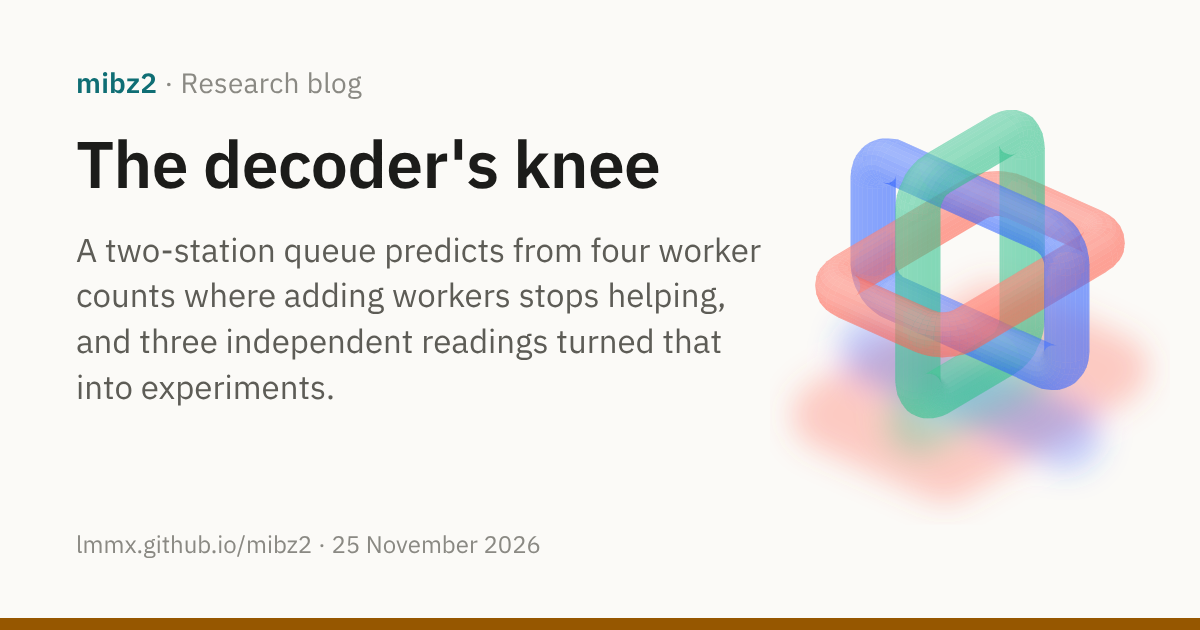
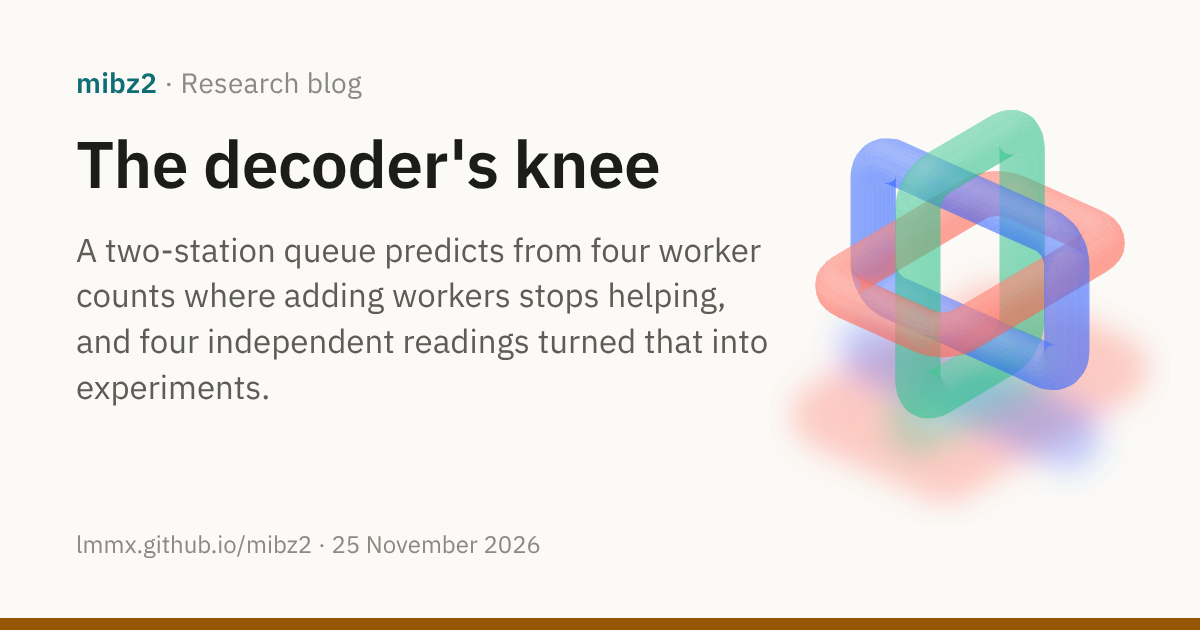
blog(knee): the fourth reading, the design space, and stage 1 analysed by program
From journal §§71-72 (docs/journal-algorithm-overnight at 3ad28015) and MONODROMY's records 129
(7f18ccf7) and 130 (9c3690f2) on claude/sharp-meitner-cx0v78, each figure checked in the records.

- New §5: the scan as one dependent chain at about 7 cycles a symbol (a first-level load's
  latency), fewer lookups a symbol as the lever, the 2.6-symbol floor and the 13-17% prediction
  (conjectured), with its cheapest test; the design space scored by the two-station law, block-start
  index -15%, several symbols a lookup -17%, both -19% (all conjectured); within-block parallel
  Huffman ruled out by the selector count that never re-synchronises (proved from the format, cost
  argued); worker shares, construction 45% as the largest mathematical target; stage 1 by program,
  the lower bound tight below the knee and loosest at it, and bursty in-order takes.
- The readers' table gains the fourth row; "three readings" becomes four in the dek, nav, index and
  card; stage 2 is "being run again", still with no results.

check_prose (dek PASS), strict build, check_render, check_site, link_audit and look (four
viewports, 0 problems) pass.

Changed region(s): [[0.1233, 0.5127, 0.6475, 0.573], [0.0617, 0.6032, 0.2775, 0.6333]]

diff --git a/docs/site/blog/2026-11-25-the-decoders-knee.md b/docs/site/blog/2026-11-25-the-decoders-knee.md
@@ -1,7 +1,7 @@
 ---
 title: "The decoder's knee"
 image: assets/social/blog-2026-11-25-the-decoders-knee.png
-description: "A two-station queue predicts from four worker counts where adding workers stops helping, and three independent readings turned that into experiments."
+description: "A two-station queue predicts from four worker counts where adding workers stops helping, and four independent readings turned that into experiments."
 ---
 
 <div class="post-hero" markdown>
@@ -13,10 +13,10 @@ description: "A two-station queue predicts from four worker counts where adding 
 
 # The decoder's knee
 
-A two-station queue predicts from four worker counts where adding workers stops helping, and three independent readings turned that into experiments.
+A two-station queue predicts from four worker counts where adding workers stops helping, and four independent readings turned that into experiments.
 {: .post-dek }
 
-25 November 2026 · 12 min read · [Research in progress](#8-what-runs-next)
+25 November 2026 · 14 min read · [Research in progress](#9-what-runs-next)
 {: .post-meta }
 
 </div>
@@ -104,14 +104,14 @@ or 3% on the plateau. The large gains lie in less work at the bottleneck, or mor
 
 Three performance-analysis courses were read in full, with their sources saved, and then mined for
 opportunities against these measurements by four readers, each writing an answer before seeing the
-others ([the summary](https://github.com/lmmx/mibz2/blob/61f960932ea45b709b3a9aeca35599bc6bad21b3/docs/journal/2026-11-24-algorithm-level/reports/2026-11-25-course-mining.md)). Three of those readings are in; the fourth, aimed at where
-mathematics rather than engineering fits, is still to come.
+others ([the summary](https://github.com/lmmx/mibz2/blob/61f960932ea45b709b3a9aeca35599bc6bad21b3/docs/journal/2026-11-24-algorithm-level/reports/2026-11-25-course-mining.md)). The fourth, aimed at where mathematics rather than engineering fits, is the subject of §5.
 
 | Reader | What it found that the others had not |
 |---|---|
 | [The first reading](https://github.com/lmmx/mibz2/blob/61f960932ea45b709b3a9aeca35599bc6bad21b3/docs/journal/2026-11-24-algorithm-level/leads/course-opportunities.md) | right-sizing the worker count; putting the bottleneck on the fastest core; mean-value analysis in place of the hard-max fit |
 | [An outside model](https://github.com/lmmx/mibz2/blob/61f960932ea45b709b3a9aeca35599bc6bad21b3/docs/journal/2026-11-24-algorithm-level/external/chatgpt-course-mining.md) | the public API's actual worker count; bottleneck migration; the variability of block sizes |
 | [A second agent](https://github.com/lmmx/mibz2/blob/61f960932ea45b709b3a9aeca35599bc6bad21b3/docs/journal/2026-11-24-algorithm-level/reviews/neon-course-mining.md) | two avoidable copies in the scanner, about 8% of its demand; the same worker-count error |
+| [The fourth reading](https://github.com/lmmx/mibz2/blob/7f18ccf719a0fd7eb863f8aa519a4fb8a8f2295b/docs/journal/monodromy/2026-11-25-course-mining-and-analysis-plan.md) | the scan as a chain at its latency floor; a design space for the scanner–worker boundary; construction as the largest worker target |
 
 The disagreements were the useful part. The first reading had claimed that the Python binding's
 default of 20 workers costs 20% of the wall. Two readers, independently, found that the public API
@@ -165,7 +165,44 @@ The run flagged its own instrument as perturbing at 10 and 20 workers: the cost 
 include 1 but are wide, so timings from the ledgers at high counts may be inflated by up to about
 9%, while shares, counts and the identities are unaffected.
 
-## 5. Designing for a purpose
+## 5. The fourth reading, and a design space
+
+The fourth reading registered its plan for analysing stages 1 and 2 before stage 1 ran, and then
+asked what the measurements imply about the scanner itself ([record 129](https://github.com/lmmx/mibz2/blob/7f18ccf719a0fd7eb863f8aa519a4fb8a8f2295b/docs/journal/monodromy/2026-11-25-course-mining-and-analysis-plan.md)). At 1.41 to
+1.51 ns a symbol, the Huffman scan takes about 7 cycles a symbol, one first-level cache load's
+latency: the scan is a single dependent chain running at its latency floor. The lever is
+therefore fewer lookups a symbol, decoding several symbols with each lookup. A 10-bit window bounds
+that at about 2.6 symbols a lookup, and the reading conjectures 13 to 17% off the best wall; the
+cheapest test is to count cycles a symbol on the scanner at one worker, where about 7 cycles and no
+cache misses would confirm the floor.
+
+A companion record enumerated the ways the scanner's obligations could be divided between the
+scanner and the workers, and scored each placement with the two-station law
+([record 130](https://github.com/lmmx/mibz2/blob/9c3690f299574ea5296e189c8f3d74e7dcfb19af/docs/journal/monodromy/2026-11-25-design-space-and-identification.md)). Three placements lead, all conjectured: an index of block starts, so that
+each worker scans its own block, at −15%; decoding several symbols a lookup, still serially, at
+−17%; and both together at −19%. Its separating principle is to keep an obligation on a serial path
+only if its state has no small summary, and to cut the path wherever the format resets that state.
+One placement it rules out: decoding a single block's Huffman codes in parallel. The table is
+chosen afresh every 50 symbols by a running symbol count that nothing in the stream
+re-synchronises, so each chunk would have to carry at least 50 hypotheses, and a k-way split
+loses for every k below 50; the obstruction is proved from the format, its cost argued.
+
+The same record measured where the workers' time goes on a real block at one worker: construction
+of the inversion's structures 45%, emission 38%, move-to-front and run records 10%, and the final
+run-length expansion and checksum 6%, shares that hold at 8 and 16 workers. Construction, not
+emission, is the largest target for mathematics in the workers. Of the two leads at the scanner,
+decoding several symbols a lookup becomes an engineering prototype, and the index of block starts
+the larger structural lead.
+
+Stage 1's traces have also been analysed by program ([journal §71](https://github.com/lmmx/mibz2/blob/3ad28015eb83951d79fdb13cedb4b5bc8ba1d992/docs/journal/2026-11-24-algorithm-level.md); [the outputs](https://github.com/lmmx/mibz2/tree/3ad28015eb83951d79fdb13cedb4b5bc8ba1d992/docs/journal/2026-11-24-algorithm-level/math-targets/data/character-stage1/analysis)).
+The lower bound, the busiest of the scanner, the workers and the reader, is tight below the knee,
+with the wall within 1.4% of it up to 6 workers, and loosest at the knee itself, 4 to 5% at 8 to 11
+workers, where dependencies, starvation and blocking cost most. Issuing blocks is smooth, but taking
+them is bursty: when a slow block at the head of the line finishes, a run of ready blocks is taken
+at once, the signature of putting completed blocks back in order. These describe one corpus's
+traces, not guarantees.
+
+## 6. Designing for a purpose
 
 A question about method came next: whether the decoder could be studied the way systems biology
 studies a regulatory network, with Uri Alon's network motifs as the obvious model. The answer that
@@ -196,7 +233,7 @@ same reading were adopted as method: the same function can be realised by differ
 which is why the referee counts structure; and a representation change is a search for the hidden
 coordinate in which the work cancels.
 
-## 6. The dynamical layer
+## 7. The dynamical layer
 
 The decoder is "digital on analogue": discrete events, a block admitted or a buffer released, on top
 of continuous quantities such as occupancy and time. The language for that is the theory of hybrid
@@ -222,7 +259,7 @@ quantities apart: lower bounds, used to prune; predictors, used to rank, and val
 runs rather than by replaying a run with its own durations; and proved upper bounds, for which
 backward induction over a finite, acyclic state graph is the concrete route.
 
-## 7. How the work is done
+## 8. How the work is done
 
 The method is written down so that it can be reused
 ([the protocol](https://github.com/lmmx/mibz2/blob/61f960932ea45b709b3a9aeca35599bc6bad21b3/docs/journal/2026-11-24-algorithm-level/process/protocol.md)). It starts from a measured surprise rather than a technique, poses the
@@ -234,13 +271,13 @@ naming who found the error, as the worker-count error and the lower bound above 
 registers its decision rule before its data, changes are priced jointly because a relieved
 bottleneck moves, and when it moves, the ideas it may have masked are tested again.
 
-## 8. What runs next
+## 9. What runs next
 
 Five runs are planned, in order ([the programme of experiments](https://github.com/lmmx/mibz2/blob/61f960932ea45b709b3a9aeca35599bc6bad21b3/docs/journal/2026-11-24-algorithm-level/briefs/experiment-programme.md)): the stage 1 baseline, now
 done; the scanner's copy fix, as a paired comparison at 8, 9 and 10 workers; stage 2, which slows
 each activity in turn to say which controls the wall at which count; the recalibration of the
 worker count, including 7 against 8 and the kernel chosen below 8; and the joint frontier of scanner
-and worker improvements together. Stage 2 is running now, and none of its results are in. Each cost
+and worker improvements together. Stage 2 is being run again after its first part failed on the workstation, and none of its results are in. Each cost
 it finds controlling will be classed as engineering, a matter of how the work is done, or as a
 candidate for mathematics, a matter of what work is done.
 
@@ -253,4 +290,5 @@ candidate for mathematics, a matter of what work is done.
 - The design thread: [structure and function](https://github.com/lmmx/mibz2/blob/61f960932ea45b709b3a9aeca35599bc6bad21b3/docs/journal/2026-11-24-algorithm-level/leads/structure-and-function.md), with [the outside answer on motifs](https://github.com/lmmx/mibz2/blob/61f960932ea45b709b3a9aeca35599bc6bad21b3/docs/journal/2026-11-24-algorithm-level/external/chatgpt-alon-motifs.md) and [on Khammash](https://github.com/lmmx/mibz2/blob/61f960932ea45b709b3a9aeca35599bc6bad21b3/docs/journal/2026-11-24-algorithm-level/external/chatgpt-khammash.md); journal §§64–65.
 - The dynamical layer: [the outside answer](https://github.com/lmmx/mibz2/blob/61f960932ea45b709b3a9aeca35599bc6bad21b3/docs/journal/2026-11-24-algorithm-level/external/chatgpt-dynamics.md), [the levers](https://github.com/lmmx/mibz2/blob/61f960932ea45b709b3a9aeca35599bc6bad21b3/docs/journal/2026-11-24-algorithm-level/reading/hybrid-dynamical-systems/relevance/levers.md) and [the review that corrected them](https://github.com/lmmx/mibz2/blob/61f960932ea45b709b3a9aeca35599bc6bad21b3/docs/journal/2026-11-24-algorithm-level/external/chatgpt-hybrid-systems-review.md); journal §§67–70.
 - [The discipline question](https://github.com/lmmx/mibz2/blob/61f960932ea45b709b3a9aeca35599bc6bad21b3/docs/journal/2026-11-24-algorithm-level/leads/queueing-discipline.md) (journal §56), [the protocol](https://github.com/lmmx/mibz2/blob/61f960932ea45b709b3a9aeca35599bc6bad21b3/docs/journal/2026-11-24-algorithm-level/process/protocol.md) and [the programme of experiments](https://github.com/lmmx/mibz2/blob/61f960932ea45b709b3a9aeca35599bc6bad21b3/docs/journal/2026-11-24-algorithm-level/briefs/experiment-programme.md).
+- The fourth reading: [record 129](https://github.com/lmmx/mibz2/blob/7f18ccf719a0fd7eb863f8aa519a4fb8a8f2295b/docs/journal/monodromy/2026-11-25-course-mining-and-analysis-plan.md) and [record 130](https://github.com/lmmx/mibz2/blob/9c3690f299574ea5296e189c8f3d74e7dcfb19af/docs/journal/monodromy/2026-11-25-design-space-and-identification.md); stage 1 by program, [journal §71](https://github.com/lmmx/mibz2/blob/3ad28015eb83951d79fdb13cedb4b5bc8ba1d992/docs/journal/2026-11-24-algorithm-level.md).
 - [The journal](https://github.com/lmmx/mibz2/blob/61f960932ea45b709b3a9aeca35599bc6bad21b3/docs/journal/2026-11-24-algorithm-level.md).

diff --git a/docs/site/blog/index.md b/docs/site/blog/index.md
@@ -8,7 +8,7 @@ What mibz2's experiments are finding, and where they go next. The evidence behin
 post is in the [journals](../background/journals.md) and the pull requests they link.
 
 <div class="post-list">
-<a class="post-card" href="2026-11-25-the-decoders-knee.md"><img src="../assets/social/blog-2026-11-25-the-decoders-knee.png" alt="" loading="lazy"><span class="post-card-text"><span class="post-card-date">25 November 2026 · Research in progress</span><span class="post-card-title">The decoder's knee</span><span class="post-card-dek">A two-station queue predicts from four worker counts where adding workers stops helping, and three independent readings turned that into experiments.</span></span></a>
+<a class="post-card" href="2026-11-25-the-decoders-knee.md"><img src="../assets/social/blog-2026-11-25-the-decoders-knee.png" alt="" loading="lazy"><span class="post-card-text"><span class="post-card-date">25 November 2026 · Research in progress</span><span class="post-card-title">The decoder's knee</span><span class="post-card-dek">A two-station queue predicts from four worker counts where adding workers stops helping, and four independent readings turned that into experiments.</span></span></a>
 <a class="post-card" href="2026-11-24-posing-the-inversion-problem.md"><img src="../assets/social/blog-2026-11-24-posing-the-inversion-problem.png" alt="" loading="lazy"><span class="post-card-text"><span class="post-card-date">24 November 2026 · Research synthesis</span><span class="post-card-title">Posing the inversion problem</span><span class="post-card-dek">The search for a new inversion algorithm became an eight-step programme, from a cost referee and measured ceilings to the model that will say where new mathematics fits.</span></span></a>
 <a class="post-card" href="2026-11-24-the-scanner-hides-the-emitter.md"><img src="../assets/social/blog-2026-11-24-the-scanner-hides-the-emitter.png" alt="" loading="lazy"><span class="post-card-text"><span class="post-card-date">24 November 2026 · Research result</span><span class="post-card-title">Masked bottlenecks in a two-stage decoder</span><span class="post-card-dek">Supplying both the serial scanner's output and the emission codes cuts whole-decoder time by 26% at ten workers, more than either stage supplied alone.</span></span></a>
 <a class="post-card" href="2026-11-24-what-else-moves-together.md"><img src="../assets/social/blog-2026-11-24-what-else-moves-together.png" alt="" loading="lazy"><span class="post-card-text"><span class="post-card-date">24 November 2026 · Meta</span><span class="post-card-title">What else moves together: the search for a decoder below the proved floor</span><span class="post-card-dek">The next decoder for bzip2's block sort will come from rows that move together in a new sense, or from inversion steps that yield more information.</span></span></a>
